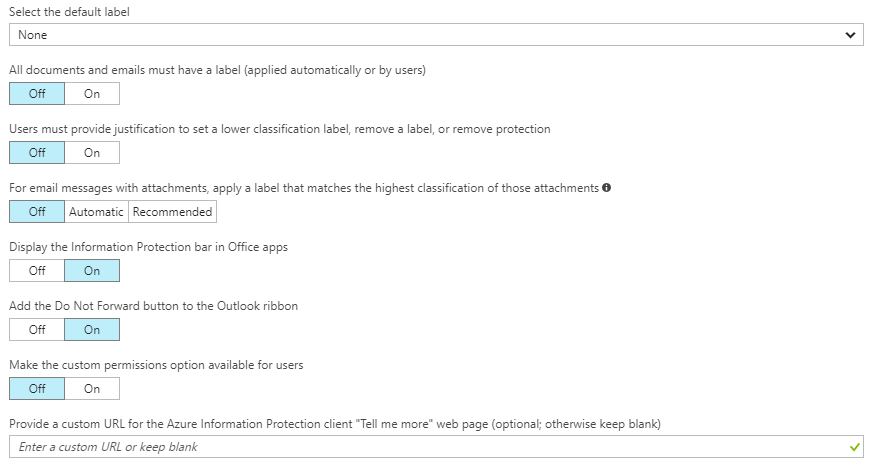
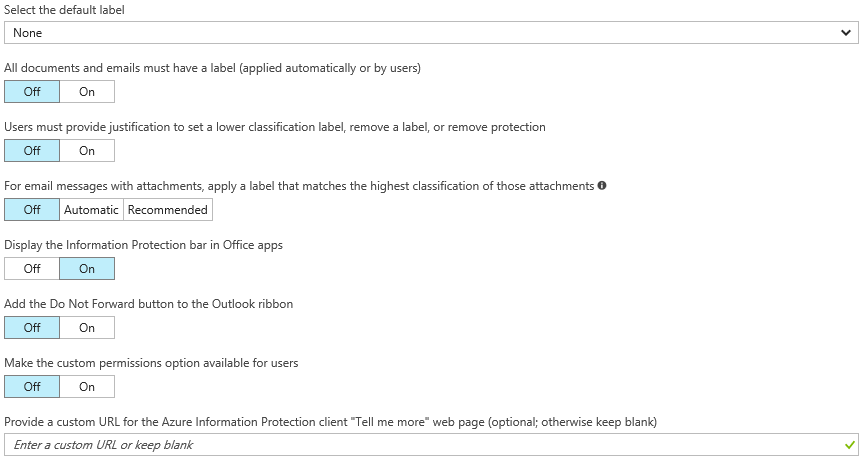
update with new policy settings

diff --git a/Azure-RMSDocs/deploy-use/configure-policy-settings.md b/Azure-RMSDocs/deploy-use/configure-policy-settings.md
@@ -6,7 +6,7 @@ description: Configure settings in the Azure Information Protection policy that 
 author: cabailey
 ms.author: cabailey
 manager: mbaldwin
-ms.date: 05/23/2017
+ms.date: 11/20/2017
 ms.topic: article
 ms.prod:
 ms.service: information-protection
@@ -63,21 +63,18 @@ To configure these settings:
         
     - **For email messages with attachments, apply a label that matches the highest classification of those attachments**: When you set this option to **Recommended**, users are prompted to apply a label to their email message. The label is dynamically chosen, based on the classification labels that are applied to the attachments, and the highest classification label is selected. The attachment must be a physical file, and cannot be a link to a file (for example, a link to a file on SharePoint or OneDrive for Business). Users can accept the recommendation or dismiss it. When you set this option to **On**, the label is automatically applied but users can remove the label or select a different label before sending the email.  
     
-    - **Display the Information Protection bar in Office apps**: When this setting is off, users cannot select labels from a bar in Word, Excel, PowerPoint, and Outlook. Instead, they must select labels from the Protect button on the ribbon. When this setting is on, users can select labels from either the bar or the button.
+    - **Display the Information Protection bar in Office apps**: When this setting is off, users cannot select labels from a bar in Word, Excel, PowerPoint, and Outlook. Instead, users must select labels from the **Protect** button on the ribbon. When this setting is on, users can select labels from either the bar or the button.
     
-    - **Add the Do Not Forward button to the Outlook ribbon**: When this setting is on, users can select this button from the Outlook ribbon in addition to selecting it from Outlook menus. To help ensure that users classify their emails as well as protect them, you might prefer to not show this button but instead, configure a label for a user defined permission for Outlook. This protection setting is functionally the same as selecting Do Not Forward but when it is included with a label, emails are classified as well as protected.
+    - **Add the Do Not Forward button to the Outlook ribbon**: When this setting is on, users can select this button from the **Protection** group on the Outlook ribbon in addition to selecting it from Outlook menus. To help ensure that users classify their emails as well as protect them, you might prefer to not add this button but instead, configure a label for a user defined permission for Outlook. This protection setting is functionally the same as selecting Do Not Forward but when it is included with a label, emails are classified as well as protected.
     
-    - **Make the custom permissions option available to users**: When this setting is on, users can set their own protection settings and override any protection settings that you have included with a label configuration. the custom permissions options from the following locations become unavailable for users to select:
-
-- In Office applications: **Home** tab > **Protection** group > **Protect** > **Custom Permissions**
-
-- From File Explorer: Right-click > **Classify and protect** > **Custom permissions**
-
-This setting has no effect on custom permissions that you can configure from Office menu options. 
-
-
-
-
+    - **Make the custom permissions option available to users**: When this setting is on, users can set their own protection settings and override any protection settings that you might have included with a label configuration. The custom permissions options are available from the following locations:
+        
+        - In Office applications: **Home** tab > **Protection** group > **Protect** > **Custom Permissions**
+        
+        - From File Explorer: Right-click > **Classify and protect** > **Custom permissions**
+    
+    Note that this setting has no effect on custom permissions that you can configure from Office menu options. 
+    
     - **Provide a custom URL for the Azure Information Protection client "Tell me more" web page**: Users see this link in the **Microsoft Azure Information Protection** dialog box, **Help and Feedback** section, when select **Protect** > **Help and feedback** from the **Home** tab in their Office applications. By default, this link goes to the [Azure Information Protection](https://www.microsoft.com/cloud-platform/azure-information-protection) website. You can enter an HTTP or HTTPS (recommended) URL if you want this link to go to an alternative web page. No check is made to verify that the custom URL entered is accessible or displays correctly on all devices.
         
         As an example, for your help desk, you might enter the Microsoft documentation page that includes information about installing and using the client (**https://docs.microsoft.com/information-protection/rms-client/info-protect-client**) or release version information (**https://docs.microsoft.com/information-protection/rms-client/client-version-release-history**). Alternatively, you might publish your own webpage that includes information for users to contact your help desk, or a video that steps users through how to use the labels that you have configured.
